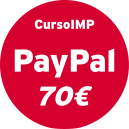
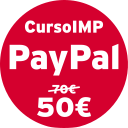
Update Curso noimagen

diff --git a/html_curso_noimagen/noimagen.html b/html_curso_noimagen/noimagen.html
@@ -2,7 +2,7 @@
 <html lang="es">
 <head>
 	<meta charset="UTF-8">
-	<meta name="description" content="Taller para diseñar tu Imagen de Marca Personal y/o la de tus clientes">	
+	<meta name="description" content="Taller para diseñar tu Imagen de Marca Personal y/o la de tus clientes">
 	<meta name="author" content="Fundación Inceptum">
 
     <title>Imagen de Marca Personal</title>
@@ -14,14 +14,14 @@
 	<link rel="stylesheet" href="http://inceptum.cc/css/style-hub.css">
     <link rel="stylesheet" href="http://inceptum.cc/css/purecss/side-menu-hub.css">
     <link rel="stylesheet" href="http://inceptum.cc/css/purecss/marketing-hub.css">
-    <link rel="stylesheet" href="http://inceptum.cc/html_proyecto_noimagen/noimagen.css">
+    <link rel="stylesheet" href="http://inceptum.cc/html_curso_noimagen/noimagen.css">
 </head>
 <body>
 
 <div id="layout">
     <!-- Menu toggle -->
     <a href="#menu" id="menuLink" class="menu-link"><!-- Hamburger icon --><span></span></a>
-   
+
     <div id="menu">
         <div class="pure-menu">
             <img class="logo" src="mainlogo_noimagen.png" alt="No Imagen"/>
@@ -39,7 +39,7 @@
         </div>
     </div>
 
-	<div id="menu-top">		
+	<div id="menu-top">
 		<div class="custom-wrapper pure-g">
 			<div class="pure-u-1 pure-u-md-4-24">
 				<div class="pure-menu">
@@ -62,7 +62,7 @@
 				</div>
 			</div>
 		</div>
-	</div> 
+	</div>
 
 	<div id="main">
 		<div class="header">
@@ -83,7 +83,7 @@
 				</div>
 			</aside>
 		</div>
-			
+
 		<div class="content">
 			<div class="pure-g">
 				<div class="pure-u-1-2"><p class="center">
@@ -96,16 +96,22 @@
 			<h2 class="content-subhead">Píldora Formativa: diseño de la Imagen de Marca Personal</h2>
 				<p>Aquellos profesionales que mejoren, con esta formación, sus habilidades y/o las de sus clientes, lograrán diferenciarse de la competencia, posicionarse y gestionar eficazmente su <em><strong>Marca personal</strong></em>; e incluso abrir una <strong>nueva línea de ingresos</strong>.</p>
 				<p style="text-align:center;"><em>"Se tiene claro que la imagen comunica, sin embargo, <strong>se construye la apariencia sin intención comunicativa</strong>"</em></p>
-							
+
+				<div class="pure-g">
+					<div class="pure-u-1">
+						<h2 class="center promo">¡Reserva ahora tu plaza para el 10 de Junio y obtén un descuento de 20€!</h2>
+					</div>
+				</div>
+
 			<div class="pure-g">
 				<div class="l-box pure-u-1 pure-u-md-1-2 pure-u-lg-1-3 servicio-grid">
-					<img class="pure-img-responsive" src="http://inceptum.cc/html_proyecto_noimagen/noimagen2__.png" alt="noimagen2__">
+					<img class="pure-img-responsive" src="http://inceptum.cc/html_curso_noimagen/noimagen2__.png" alt="noimagen2__">
 					<h3 class="content-subhead servicio-grid">
 						<i class="fa fa-user"></i>María A. Sánchez</h3>
 					<p class="servicio-grid">Experta en coaching de <strong>Imagen de Marca Personal</strong>: comunicación de la Identidad Visual a través de la apariencia, para la mejora del posicionamiento personal y profesional.</p>
 				</div>
 				<div class="l-box pure-u-1 pure-u-md-1-2 pure-u-lg-1-3 servicio-grid">
-					<img class="pure-img-responsive" src="http://inceptum.cc/html_proyecto_noimagen/noimagen5.png" alt="noimagen5">
+					<img class="pure-img-responsive" src="http://inceptum.cc/html_curso_noimagen/noimagen5.png" alt="noimagen5">
 					<h3 class="content-subhead servicio-grid">
 						<i class="fa fa-book"></i>Taller dirigido a:</h3>
 					<p class="servicio-grid">Emprendedores, vendedores, comerciales, dependientes, peluqueros o esteticistas; tendrán como objetivo relacionarse mejor con uno mismo, amigos, compañeros de trabajo y clientes.</p>
@@ -113,13 +119,11 @@
 					<p class="servicio-grid"><span class="content-subhead">Asistentes:</span> Entre 10 y 15 pax</p>
 				</div>
 				<div class="l-box pure-u-1 pure-u-md-1-2 pure-u-lg-1-3 servicio-grid">
-					<img class="pure-img-responsive" src="http://inceptum.cc/html_proyecto_noimagen/noimagen4.png" alt="noimagen4">
+					<img class="pure-img-responsive" src="http://inceptum.cc/html_curso_noimagen/noimagen4.png" alt="noimagen4">
 					<h3 class="content-subhead servicio-grid">
 						<i class="fa fa-trophy"></i>Contenido</h3>
 					<p class="servicio-grid">Se trabajará el modo de lograr la belleza científica y la simbología de la comunicación, aprendiendo a aplicarla, analizando características y estrategias científicamente probadas y saludables.</p>
-					<p class="servicio-grid"><span class="content-subhead">Próximos Cursos:</span> <em>por concretar según asistencia</em></p>
-					<!--<p class="servicio-grid"><strong>Sábado 22</strong> (17h-20h)</p>
-					<p class="servicio-grid"><strong>Domingo 23</strong> y <strong>Lunes 24</strong> (10h-13h)</p><!-->
+					<p class="servicio-grid"><span class="content-subhead">Próximo Curso:</span> <strong>Sábado 10 de Junio</strong> (10h-13h)</p>
 				</div>
 			</div>
 			<div class="pure-g">
@@ -129,17 +133,17 @@
 			</div>
 			<div class="pure-g">
 				<div class="pure-u-1-4"><p class="center">
-					<p class="servicio-grid" style="text-align:center;"><a class="link" href="https://www.paypal.com/cgi-bin/webscr?cmd=_s-xclick&hosted_button_id=E2GRVHW9UZ4SE" target="_blank"><img class="pure-img-responsive" src="http://inceptum.cc/html_proyecto_noimagen/boton_inscripcion.png" alt="paypal_inscripción"></a></p>
+					<p class="servicio-grid" style="text-align:center;"><a class="link" href="https://www.paypal.com/cgi-bin/webscr?cmd=_s-xclick&hosted_button_id=E2GRVHW9UZ4SE" target="_blank"><img class="pure-img-responsive" src="http://inceptum.cc/html_curso_noimagen/boton_inscripcion.png" alt="paypal_inscripción"></a></p>
 				</div>
 				<div class="pure-u-3-4"><p class="center">
-					<p class="servicio-grid">Para apuntarse al curso sólo tienes que realizar una transferencia de <strong>70€</strong> a la cuenta de la fundación <strong>ES60 0128 0233 4701 0001 9845</strong>, indicando la referencia '<em>CursoIMP</em>' en el concepto.</p>
+					<p class="servicio-grid">Para apuntarse al curso sólo tienes que realizar una transferencia de <span style="text-decoration: line-through;">70€</span> <strong>50€</strong> a la cuenta de la fundación <strong>ES60 0128 0233 4701 0001 9845</strong>, indicando la referencia '<em>CursoIMP</em>' en el concepto.</p>
 					<p class="servicio-grid">Recuerda enviar el justificante de la operación a: <a class="link" href="mailto:inscripciones@inceptum.cc">inscripciones@inceptum.cc</a></em></p>
 					<p class="servicio-grid"><em>También puedes utilizar el botón de la izquierda para <a class="link" href="https://www.paypal.com/cgi-bin/webscr?cmd=_s-xclick&hosted_button_id=E2GRVHW9UZ4SE" target="_blank">pagar por Paypal</a>.</em></p>
 				</div>
 			</div>
 		</div>
 	</div>
-	
+
 	<div id="footer">
 		<div class="ribbon l-box is-center l-box-lrg pure-g">
 			<div class="l-box-lrg is-center pure-u-1 pure-u-md-1-2 pure-u-lg-2-5">
@@ -151,7 +155,7 @@
 			<div class="pure-u-1 pure-u-md-1-2 pure-u-lg-3-5">
 
 				<h2 class="content-head content-head-ribbon">Datos de Contacto del Proyecto</h2>
-			
+
 				<div class="pure-g">
 					<div class="pure-u-1 pure-u-md-1-6"></div>
 					<div class="pure-u-1 pure-u-md-1-6"><a href="https://twitter.com/maria_a_sanchez"><img class="pure-img-responsive" src="http://inceptum.cc/img/logo_twitter_300.png" alt="Twitter" width="64px"></a></div>
@@ -169,7 +173,7 @@
 			</div>
 		</div>
 	</div>
-	
+
 </div>
 
 <script src="http://inceptum.cc/js/ui.js"></script>

diff --git a/html_curso_noimagen/noimagen.css b/html_curso_noimagen/noimagen.css
@@ -33,6 +33,12 @@ a.hub-color {
 	color: #d5002e;
 }
 
+.promo {
+	color: #d5002e;
+  margin: 25px 0px 40px 0px;
+  text-decoration: overline underline;
+}
+
 .header {
 	color: #676864;
 }
